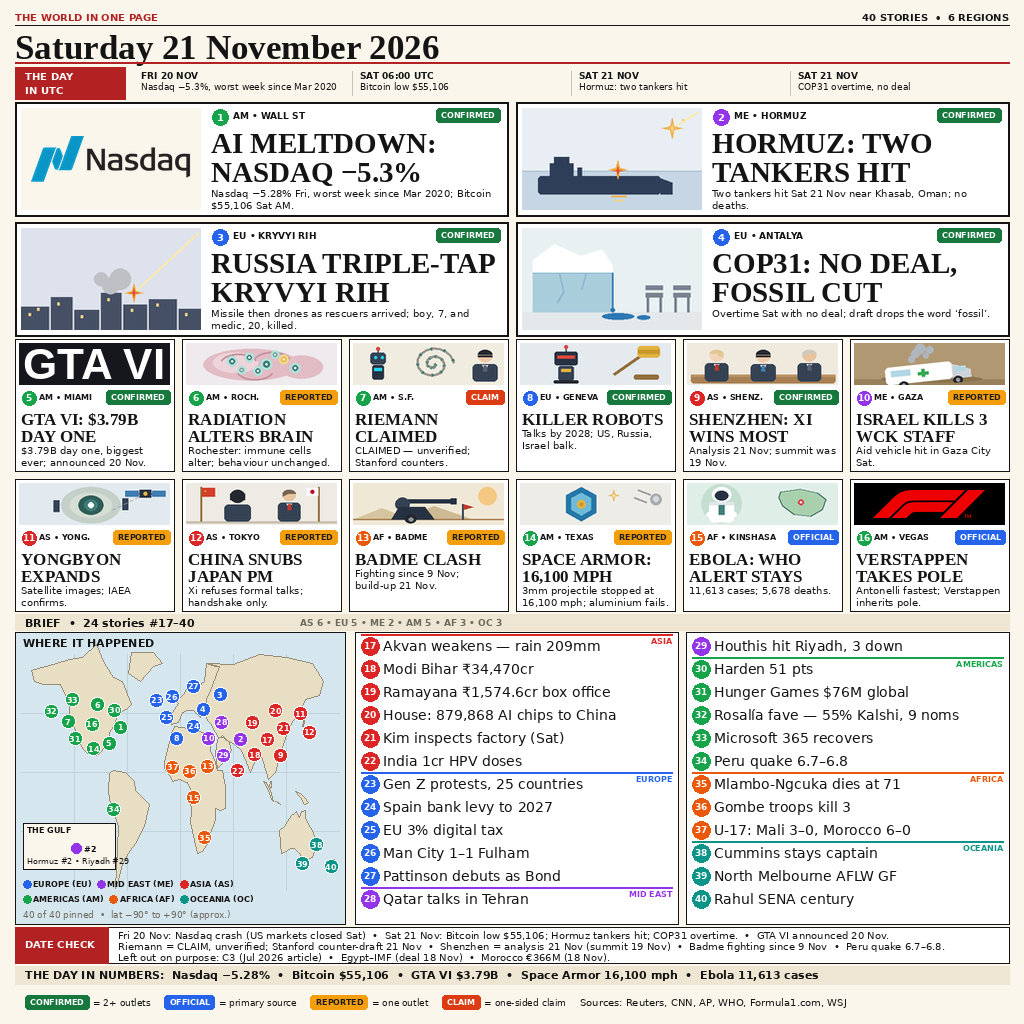
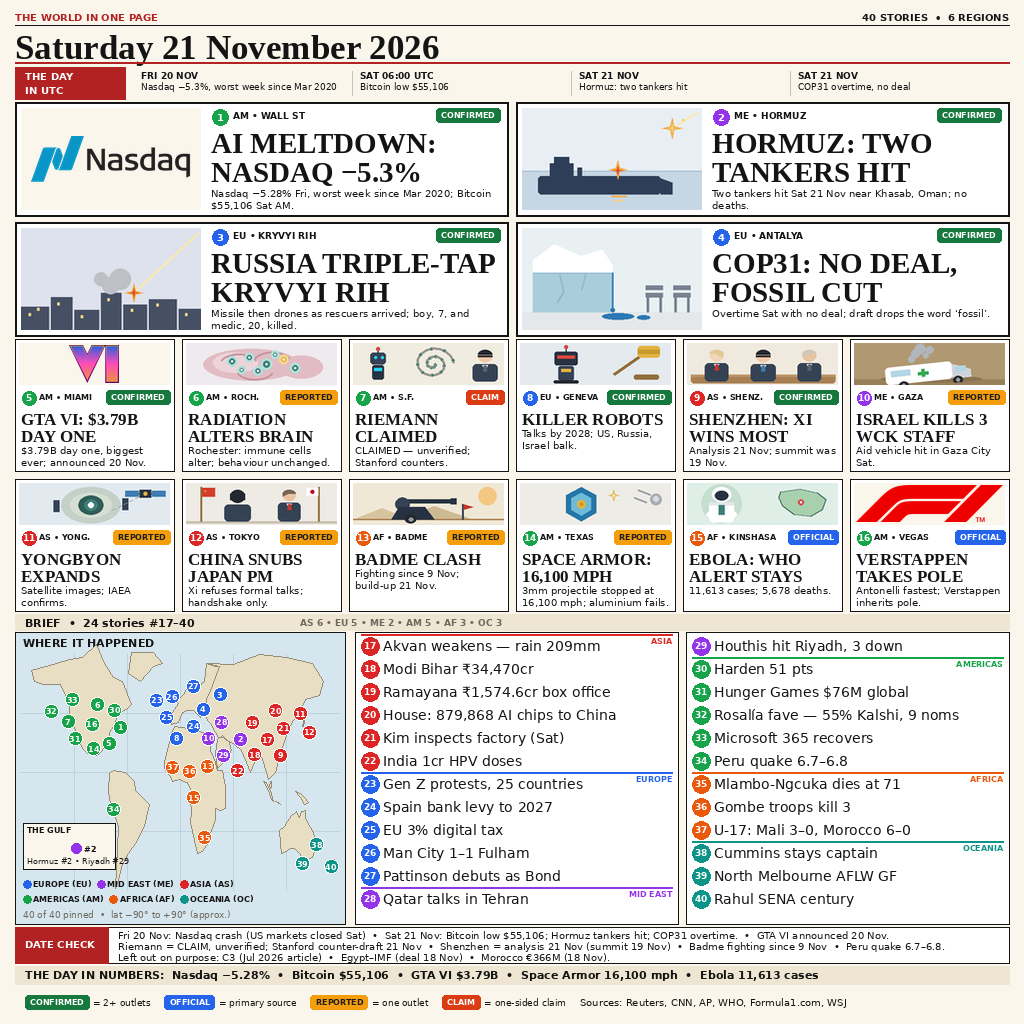
sum21 M5: A1 VI-pale + A12 F1-pale

Changed region(s): [[0.8125, 0.4688, 1.0, 0.5312], [0.0, 0.3125, 0.1875, 0.375]]

diff --git a/main.py b/main.py
@@ -14,10 +14,10 @@ import sys
 HERE = os.path.dirname(os.path.abspath(__file__))
 SRC = os.path.join(HERE, "entry.png")
 
-# sha256 pin of the sealed final artwork (entry.png v3, M3-fix).
+# sha256 pin of the sealed final artwork (entry.png v4, M5: A1 VI-pale + A12 F1-pale).
 # main.py refuses to publish any other bytes: a mismatched sha exits
 # non-zero before anything is copied to the output directory.
[2 lines of base64/hex data omitted]
 
 
 def sha256_file(path):
@@ -30,7 +30,7 @@ def sha256_file(path):
 def verify_png(path):
     """Return (width, height) after checking PNG signature + IHDR.
 
-    Note (M4a): the sha256 pin of the sealed entry.png v3 is verified in
+    Note (M5): the sha256 pin of the sealed entry.png v4 is verified in
     main() before copying; verify_png itself only checks structure.
     """
     with open(path, "rb") as f:

diff --git a/render_entry.py b/render_entry.py
@@ -43,11 +43,11 @@ STATUS = {
 # Slot -> file ilustrasi final (nama sumber apa adanya, di root repo).
 HERO_IMG = {1: "hero-h1-nasdaq-only.png", 2: "hero-h2.png",
             3: "hero-h3.png", 4: "hero-h4.png"}
-STRIP_IMG = {5: "strip-a1-gtavi-text.png", 6: "strip-a2.png",
+STRIP_IMG = {5: "strip-a1-vi-pale.png", 6: "strip-a2.png",
              7: "strip-a3.png", 8: "strip-a4.png", 9: "strip-a5.png",
              10: "strip-a6.png", 11: "strip-a7.png", 12: "strip-a8.png",
              13: "strip-a9.png", 14: "strip-a10.png", 15: "strip-a11.png",
-             16: "strip-a12-logo-b.png"}
+             16: "strip-a12-f1-pale.png"}
 
 def F(px, bold=False, serif=False):
     if serif:

diff --git a/test_entry.py b/test_entry.py
@@ -16,7 +16,7 @@ RENDERER = os.path.join(ROOT, "render_entry.py")
 MAIN = os.path.join(ROOT, "main.py")
 
 HERO_FILES = ["hero-h1-nasdaq-only.png", "hero-h2.png", "hero-h3.png", "hero-h4.png"]
-STRIP_FILES = ["strip-a1-gtavi-text.png"] + [f"strip-a{i}.png" for i in range(2, 12)] + ["strip-a12-logo-b.png"]
+STRIP_FILES = ["strip-a1-vi-pale.png"] + [f"strip-a{i}.png" for i in range(2, 12)] + ["strip-a12-f1-pale.png"]
 
 failures = []
 
